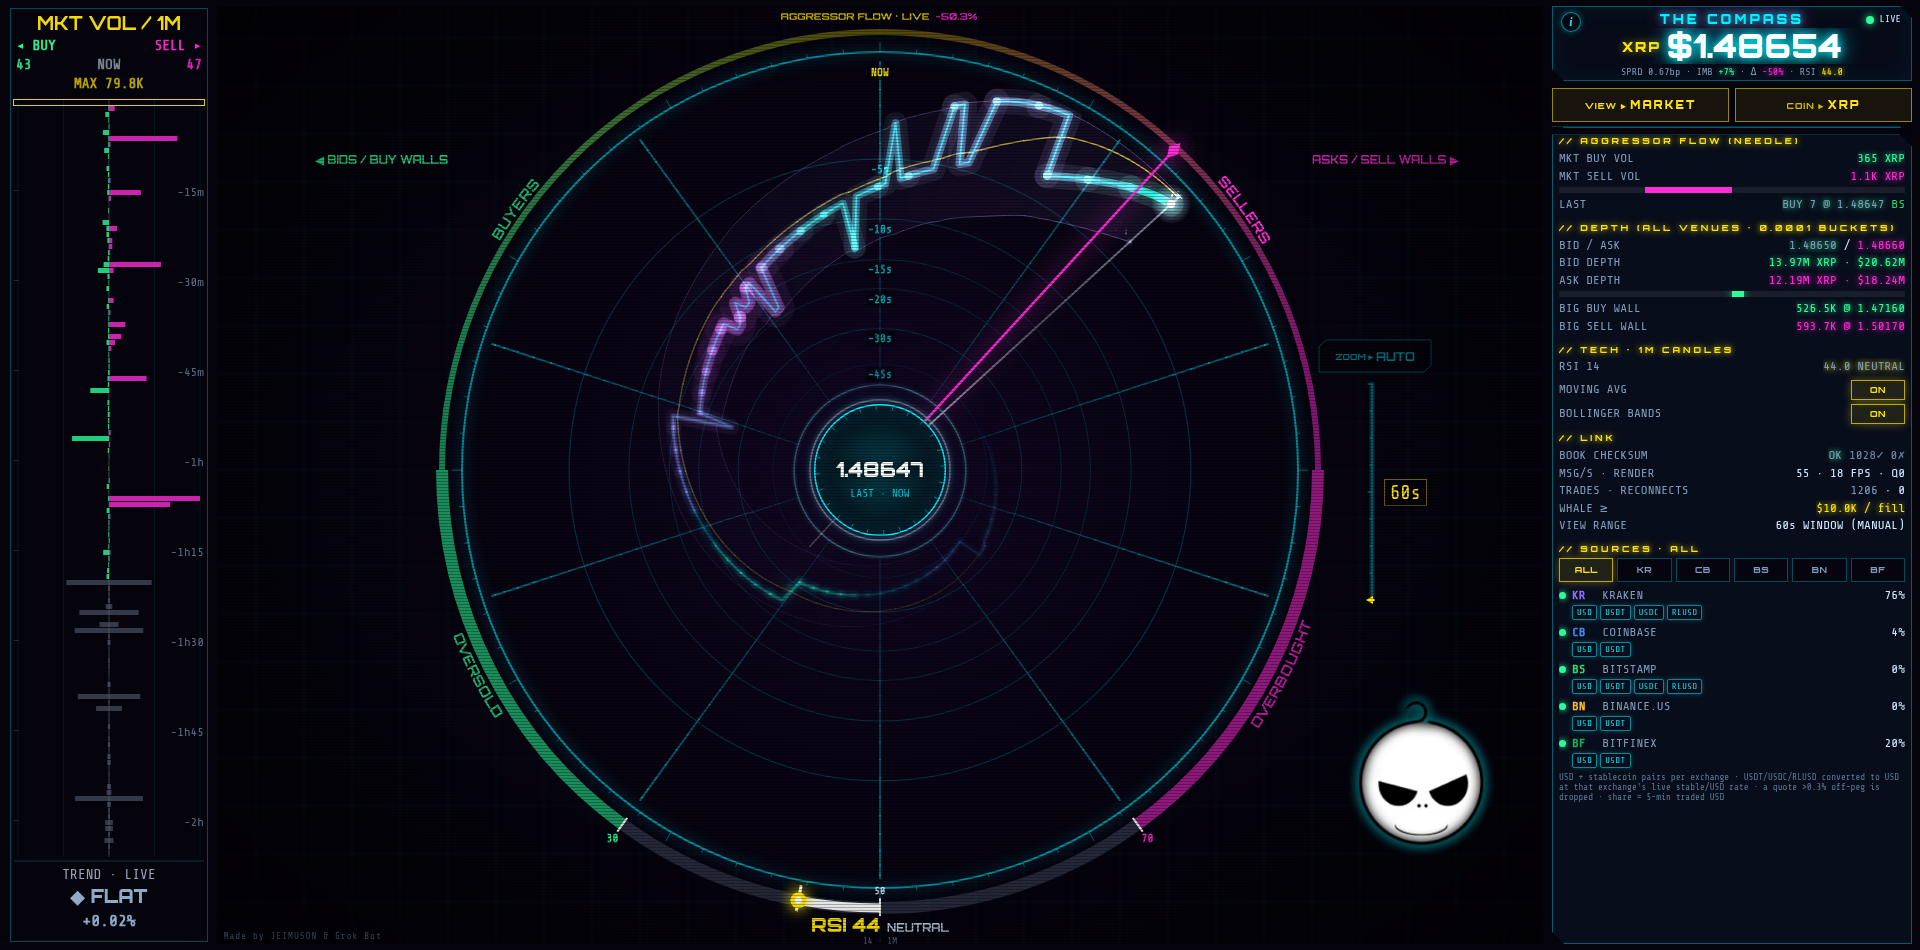
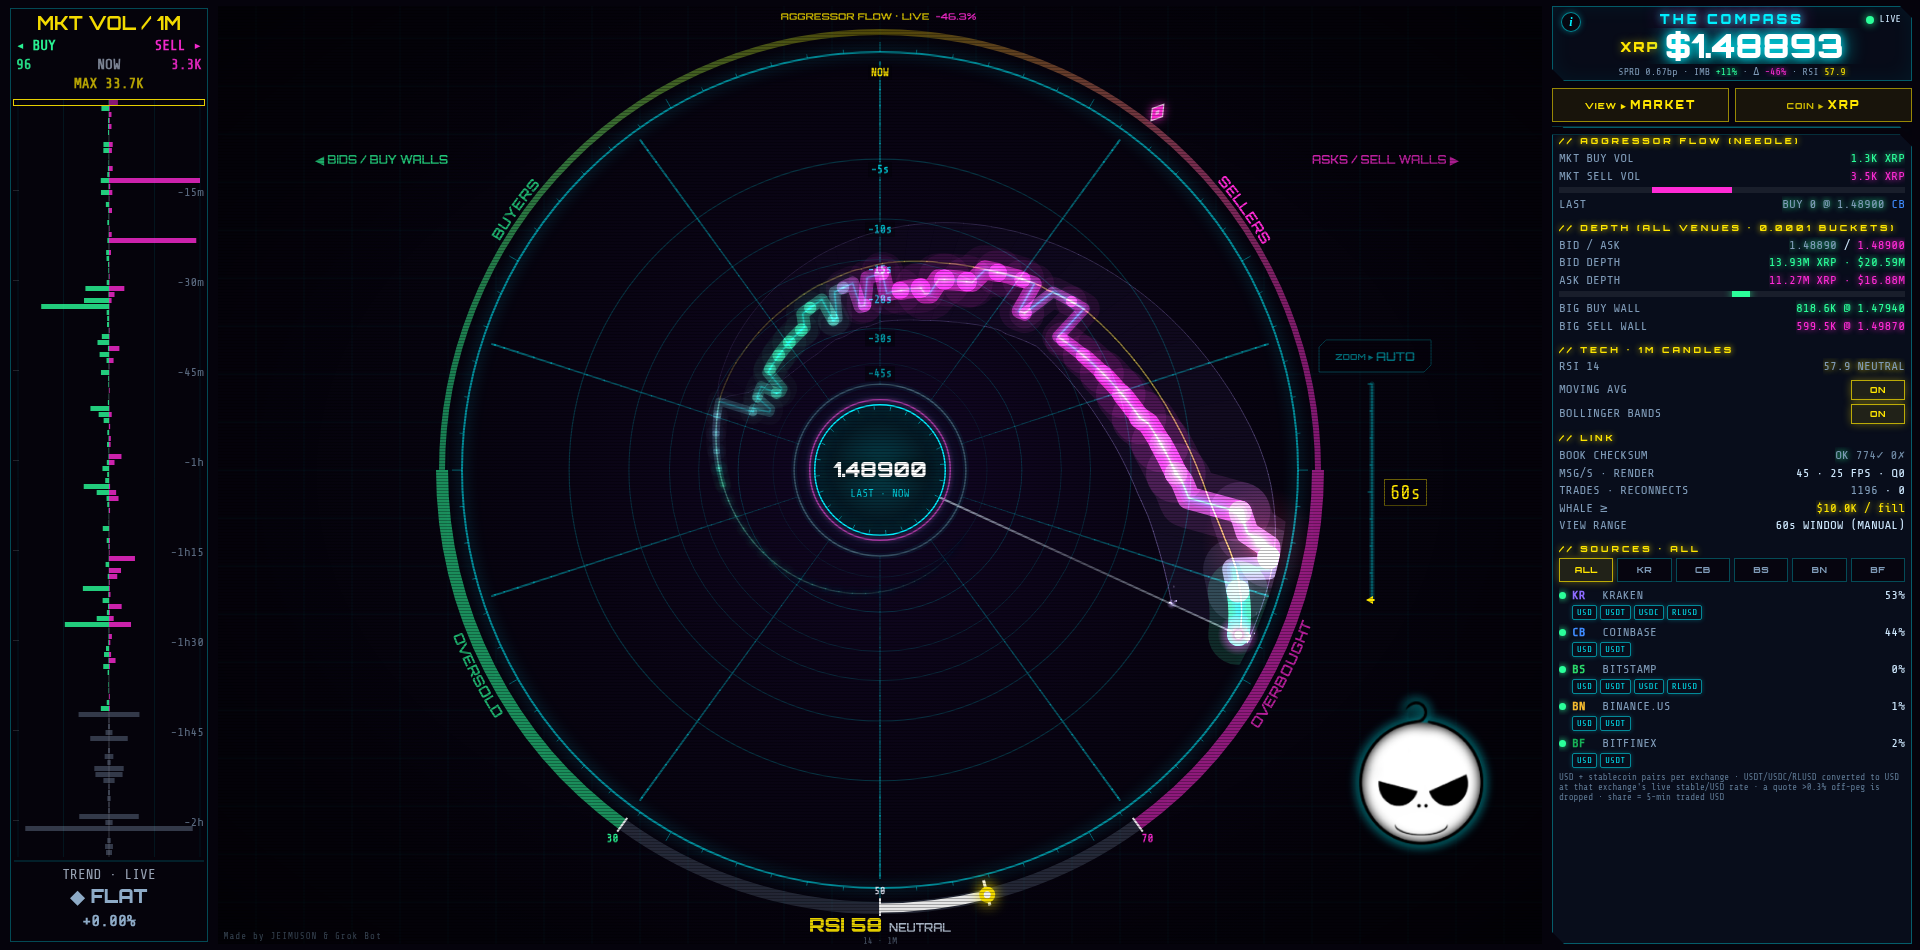
Build 20261003-2025: aggressor flow = diamond only, outside the gauge circle (MARKET+LIMIT); refreshed MARKET screenshots

diff --git a/index.html b/index.html
@@ -3,7 +3,7 @@
 <head>
 <meta charset="utf-8">
 <meta http-equiv="Cache-Control" content="no-cache, no-store, must-revalidate"><meta http-equiv="Pragma" content="no-cache"><meta http-equiv="Expires" content="0">
-<script>window.OFC_BUILD='20261003-1850';try{localStorage.removeItem('ofc.trail')}catch(e){};(function(){try{if(!/^https?:/.test(location.protocol))return;fetch(location.pathname+'?_='+Date.now(),{cache:'no-store'}).then(r=>r.text()).then(t=>{const m=t.match(/OFC_BUILD='([^']+)'/);if(m&&m[1]!==window.OFC_BUILD&&sessionStorage.getItem('ofcB')!==m[1]){sessionStorage.setItem('ofcB',m[1]);location.replace(location.pathname+'?v='+m[1]+location.hash);}}).catch(()=>{});}catch(e){}})();</script>
+<script>window.OFC_BUILD='20261003-2025';try{localStorage.removeItem('ofc.trail')}catch(e){};(function(){try{if(!/^https?:/.test(location.protocol))return;fetch(location.pathname+'?_='+Date.now(),{cache:'no-store'}).then(r=>r.text()).then(t=>{const m=t.match(/OFC_BUILD='([^']+)'/);if(m&&m[1]!==window.OFC_BUILD&&sessionStorage.getItem('ofcB')!==m[1]){sessionStorage.setItem('ofcB',m[1]);location.replace(location.pathname+'?v='+m[1]+location.hash);}}).catch(()=>{});}catch(e){}})();</script>
 <script>/* viewport height guard: Android standalone PWAs can report a stale/too-tall 100dvh right after a reload (e.g. coin switch) -> size from the smallest sane measurement and keep re-checking */
 (function(){var R=document.documentElement;function m(){var v=window.visualViewport,c=[window.innerHeight,R.clientHeight];if(v&&v.height>0)c.push(v.height);c=c.filter(function(x){return x>100;});if(!c.length)return;
   var h=Math.round(Math.min.apply(null,c))+'px';if(R.style.getPropertyValue('--apph')!==h){R.style.setProperty('--apph',h);try{window.dispatchEvent(new Event('ofc-vh'));}catch(e){}}}
@@ -1377,7 +1377,7 @@ function drawCore(now){
 }
 
 function drawNeedle(now){
-  const f=flow(winSec); const target=-f.r*Math.PI*0.47; // buy pressure swings LEFT (green side), sell RIGHT
+  const f=flow(winSec); const target=window.__nfix!=null?window.__nfix:-f.r*Math.PI*0.47;   // __nfix: test hook only // buy pressure swings LEFT (green side), sell RIGHT
   // spring
   needleV+=(target-needle)*0.012; needleV*=0.86; needle+=needleV;
   ctx.save();
@@ -1387,21 +1387,29 @@ function drawNeedle(now){
   const grd=ctx.createLinearGradient(CX-GR,0,CX+GR,0);grd.addColorStop(0,rgba(COL.bid,.9));grd.addColorStop(.5,'rgba(255,230,0,.6)');grd.addColorStop(1,rgba(COL.ask,.9));
   ctx.strokeStyle=grd;ctx.globalAlpha=.55;ctx.beginPath();ctx.arc(CX,CY,GR,Math.PI,2*Math.PI);ctx.stroke();ctx.globalAlpha=1;
   ctx.font=`700 ${WIDE?10:9}px Orbitron,sans-serif`;ctx.textAlign='center';
-  {const f=flow(winSec).r;for(const L of ringLabels()){if(L.k==='buy')drawRingLabel(L,COL.bid,f>0.15,1);else if(L.k==='sell')drawRingLabel(L,COL.ask,f<-0.15,1);}}
   ctx.font=`700 ${WIDE?10:9}px Orbitron,sans-serif`;ctx.textAlign='center';
-  ctx.fillStyle='rgba(255,230,0,.9)';ctx.fillText('AGGRESSOR FLOW · '+WL(winSec)+(flow(winSec).cov<0.98?'~':'')+'  ',CX-22,CY-GR-12);{const f2=flow(winSec);ctx.textAlign='left';ctx.fillStyle=rgba(f2.r>0.05?COL.bid:f2.r<-0.05?COL.ask:COL.yl,1);ctx.fillText((f2.r>=0?'+':'')+(f2.r*100).toFixed(1)+'%',CX-22+ctx.measureText('AGGRESSOR FLOW · '+WL(winSec)+(flow(winSec).cov<0.98?'~':'')+'  ').width/2,CY-GR-12);ctx.textAlign='center';}
-  // needle
-  const a=-Math.PI/2+needle, L=GR-4, tipX=CX+Math.cos(a)*L, tipY=CY+Math.sin(a)*L;
+  
+  // aggressor-flow marker: diamond only (no hub->ring line), riding just outside the big outer (gauge) circle; same angle/spring/colour as the old line tip
+  const a=-Math.PI/2+needle, HL=WIDE?10.5:11.5, HW=HL*0.62, n=a+Math.PI/2, ex=Math.abs(Math.cos(a))*HL+Math.abs(Math.cos(n))*HW, ey=Math.abs(Math.sin(a))*HL+Math.abs(Math.sin(n))*HW;
+  // radius: just outside the gauge circle; pulled inward only where it would leave the canvas (phone sides at extreme flow) or touch the zoom pill
+  let DR=GR+4+HL;{const Zg=(typeof zbarGeom==='function')?zbarGeom():null,P=Zg&&Zg.pw?Zg:null,bad=r=>{const x=CX+Math.cos(a)*r,y=CY+Math.sin(a)*r;
+      if(x-ex<2||x+ex>W-2||y-ey<1)return true;return !!P&&x+ex>P.px-4&&x-ex<P.px+P.pw+4&&y+ey>P.py-4&&y-ey<P.py+P.ph+4;};
+    for(let k=0;k<40&&bad(DR)&&DR>GR-HL-8;k++)DR-=1.5;}
+  const tipX=CX+Math.cos(a)*DR, tipY=CY+Math.sin(a)*DR;
   const col=f.r>0.05?COL.bid:f.r<-0.05?COL.ask:COL.yl;
-  ctx.strokeStyle=rgba(col,0.95);ctx.lineWidth=2.5;ctx.shadowColor=rgba(col,1);ctx.shadowBlur=22;
-  ctx.beginPath();ctx.moveTo(CX+Math.cos(a)*R0,CY+Math.sin(a)*R0);ctx.lineTo(tipX,tipY);ctx.stroke();
-  // tail
-  ctx.strokeStyle='rgba(255,255,255,.25)';ctx.lineWidth=1.5;ctx.beginPath();ctx.moveTo(CX-Math.cos(a)*R0,CY-Math.sin(a)*R0);ctx.lineTo(CX-Math.cos(a)*R0*1.6,CY-Math.sin(a)*R0*1.6);ctx.stroke();
-  // tip diamond
-  ctx.fillStyle=rgba(col,1);ctx.beginPath();
-  const n=a+Math.PI/2;ctx.moveTo(tipX+Math.cos(a)*10,tipY+Math.sin(a)*10);ctx.lineTo(tipX+Math.cos(n)*6,tipY+Math.sin(n)*6);
-  ctx.lineTo(tipX-Math.cos(a)*10,tipY-Math.sin(a)*10);ctx.lineTo(tipX-Math.cos(n)*6,tipY-Math.sin(n)*6);ctx.fill();
-  ctx.shadowBlur=0;
+  const dia=(k)=>{ctx.beginPath();ctx.moveTo(tipX+Math.cos(a)*HL*k,tipY+Math.sin(a)*HL*k);ctx.lineTo(tipX+Math.cos(n)*HW*k,tipY+Math.sin(n)*HW*k);
+    ctx.lineTo(tipX-Math.cos(a)*HL*k,tipY-Math.sin(a)*HL*k);ctx.lineTo(tipX-Math.cos(n)*HW*k,tipY-Math.sin(n)*HW*k);ctx.closePath();};
+  // title: drawn first, with a small gap cut around the diamond so the marker never sits on top of the text
+  {const bx=ex+4, by=ey+4, TY=CY-GR-12-(CY-GR>=60?2*HL+4:0);   // room above the dial (phone): lift the title clear of the diamond's path; tight desktop top: cut a gap instead
+    ctx.save();ctx.beginPath();ctx.rect(0,0,W,H);{const k=1+4/HW;ctx.moveTo(tipX+Math.cos(a)*HL*k,tipY+Math.sin(a)*HL*k);ctx.lineTo(tipX+Math.cos(n)*HW*k,tipY+Math.sin(n)*HW*k);ctx.lineTo(tipX-Math.cos(a)*HL*k,tipY-Math.sin(a)*HL*k);ctx.lineTo(tipX-Math.cos(n)*HW*k,tipY-Math.sin(n)*HW*k);ctx.closePath();}ctx.clip('evenodd');   // gap = diamond outline + ~4 px
+  {const f=flow(winSec).r;for(const L of ringLabels()){if(L.k==='buy')drawRingLabel(L,COL.bid,f>0.15,1);else if(L.k==='sell')drawRingLabel(L,COL.ask,f<-0.15,1);}}   // BUYERS / SELLERS ring labels share the gap
+    ctx.font=`700 ${WIDE?10:9}px Orbitron,sans-serif`;ctx.textAlign='center';
+    ctx.fillStyle='rgba(255,230,0,.9)';ctx.fillText('AGGRESSOR FLOW · '+WL(winSec)+(flow(winSec).cov<0.98?'~':'')+'  ',CX-22,TY);{const f2=flow(winSec);ctx.textAlign='left';ctx.fillStyle=rgba(f2.r>0.05?COL.bid:f2.r<-0.05?COL.ask:COL.yl,1);ctx.fillText((f2.r>=0?'+':'')+(f2.r*100).toFixed(1)+'%',CX-22+ctx.measureText('AGGRESSOR FLOW · '+WL(winSec)+(flow(winSec).cov<0.98?'~':'')+'  ').width/2,TY);ctx.textAlign='center';}
+    ctx.restore();}
+  ctx.save();ctx.shadowColor=rgba(col,1);ctx.shadowBlur=Q>0?22:10;ctx.fillStyle=rgba(col,1);dia(1);ctx.fill();
+  if(Q>0){ctx.shadowBlur=9;ctx.globalAlpha=0.7;ctx.fill();ctx.globalAlpha=1;}
+  ctx.shadowBlur=0;ctx.lineWidth=1.2;ctx.strokeStyle='rgba(255,255,255,.7)';dia(1);ctx.stroke();   // thin bright rim keeps it crisp on its own
+  ctx.fillStyle='rgba(255,255,255,.55)';dia(0.32);ctx.fill();ctx.restore();
   ctx.font='700 12px Orbitron,sans-serif';ctx.fillStyle=rgba(col,1);
   
   ctx.restore();
